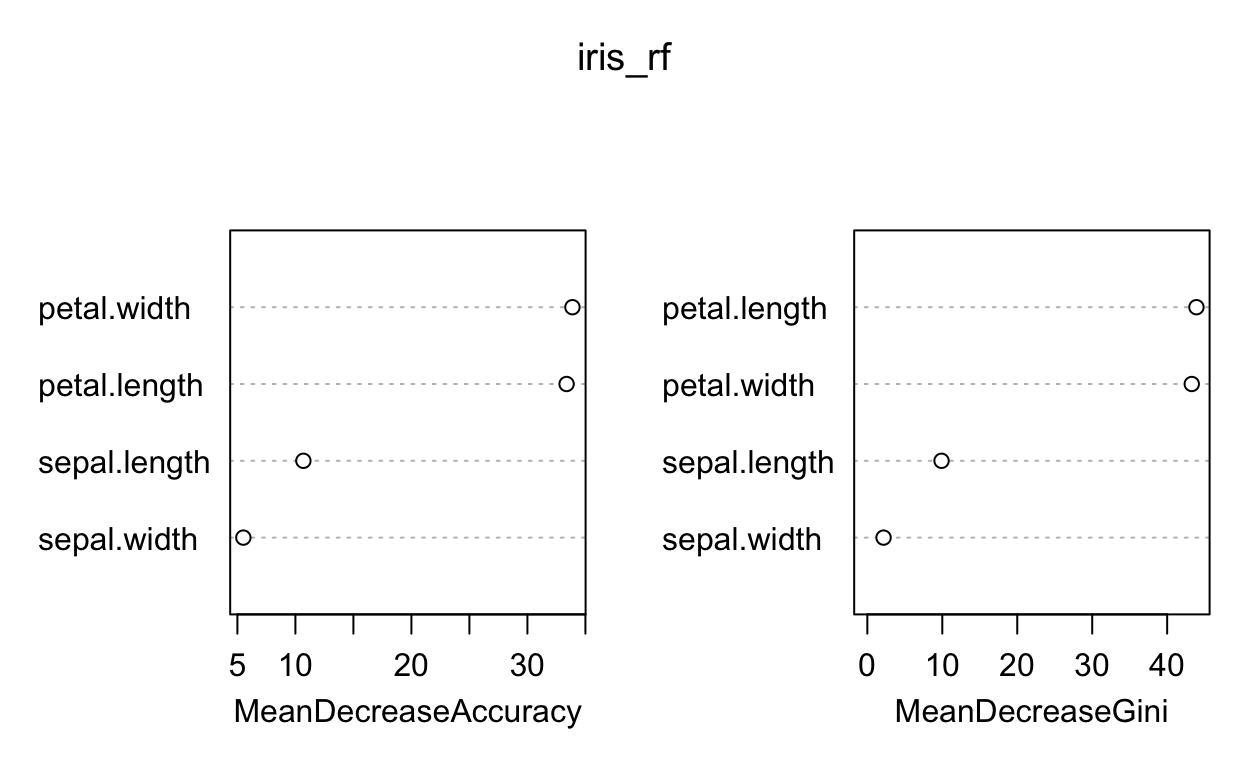
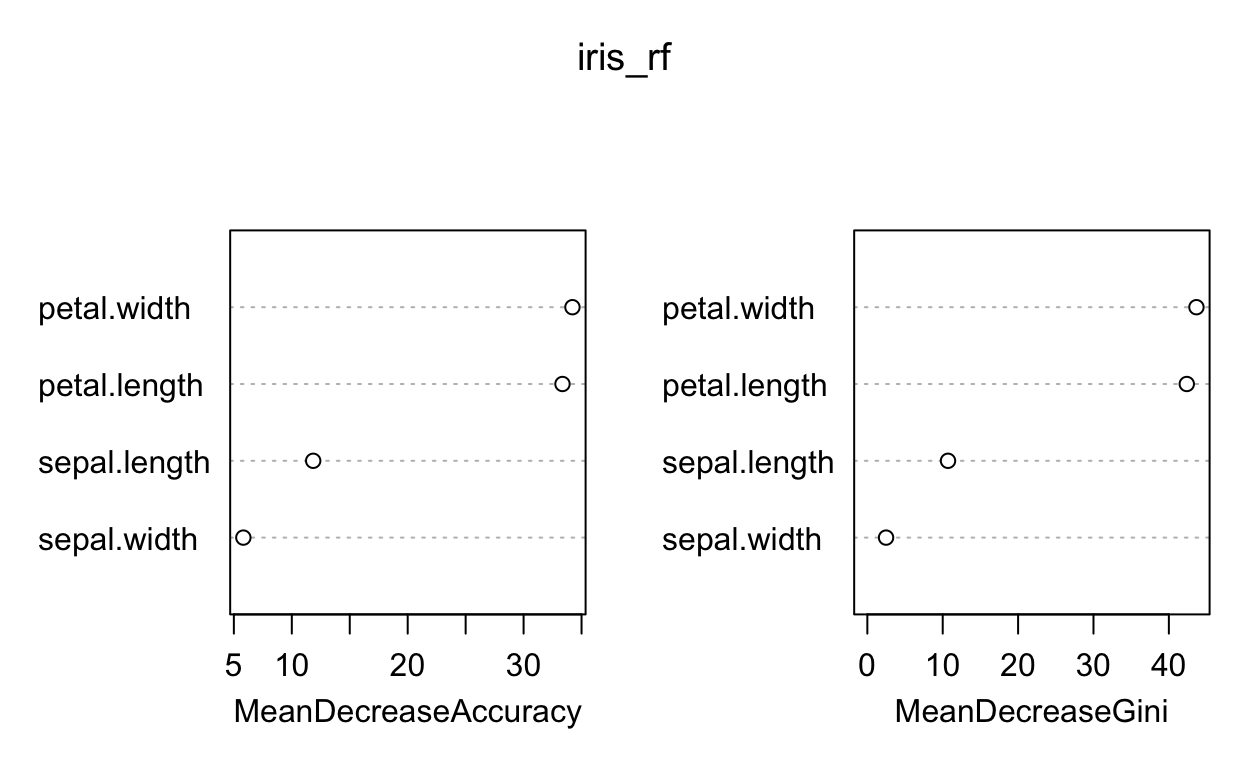
update distill blog and yml

diff --git a/docs/iris.html b/docs/iris.html
@@ -24,8 +24,8 @@
 
 
   <!--  https://schema.org/Article -->
-  <meta property="article:published" itemprop="datePublished" content="2020-04-22"/>
-  <meta property="article:created" itemprop="dateCreated" content="2020-04-22"/>
+  <meta property="article:published" itemprop="datePublished" content="2020-04-23"/>
+  <meta property="article:created" itemprop="dateCreated" content="2020-04-23"/>
 
   <!--  https://developers.facebook.com/docs/sharing/webmasters#markup -->
   <meta property="og:title" content="Distill 웹사이트: 붓꽃 데이터를 통한 Blogdown 헬로월드"/>
@@ -41,7 +41,7 @@
   <!--radix_placeholder_rmarkdown_metadata-->
 
   <script type="text/json" id="radix-rmarkdown-metadata">
-  {"type":"list","attributes":{"names":{"type":"character","attributes":{},"value":["title","date","site","listing","editor_options","categories","tags"]}},"value":[{"type":"character","attributes":{},"value":["붓꽃 데이터를 통한 Blogdown 헬로월드"]},{"type":"character","attributes":{},"value":["2020-04-22"]},{"type":"character","attributes":{},"value":["distill::distill_website"]},{"type":"character","attributes":{},"value":["posts"]},{"type":"list","attributes":{"names":{"type":"character","attributes":{},"value":["chunk_output_type"]}},"value":[{"type":"character","attributes":{},"value":["console"]}]},{"type":"character","attributes":{},"value":["R"]},{"type":"character","attributes":{},"value":["R Markdown","붓꽃","blogdown","헬로월드","모형"]}]}
+  {"type":"list","attributes":{"names":{"type":"character","attributes":{},"value":["title","date","site","listing","editor_options","categories","tags"]}},"value":[{"type":"character","attributes":{},"value":["붓꽃 데이터를 통한 Blogdown 헬로월드"]},{"type":"character","attributes":{},"value":["2020-04-23"]},{"type":"character","attributes":{},"value":["distill::distill_website"]},{"type":"character","attributes":{},"value":["posts"]},{"type":"list","attributes":{"names":{"type":"character","attributes":{},"value":["chunk_output_type"]}},"value":[{"type":"character","attributes":{},"value":["console"]}]},{"type":"character","attributes":{},"value":["R"]},{"type":"character","attributes":{},"value":["R Markdown","붓꽃","blogdown","헬로월드","모형"]}]}
   </script>
   <!--/radix_placeholder_rmarkdown_metadata-->
   <!--radix_placeholder_navigation_in_header-->
@@ -1281,7 +1281,7 @@
 <!--radix_placeholder_front_matter-->
 
 <script id="distill-front-matter" type="text/json">
-{"title":"붓꽃 데이터를 통한 Blogdown 헬로월드","authors":[],"publishedDate":"2020-04-22T00:00:00.000+09:00"}
+{"title":"붓꽃 데이터를 통한 Blogdown 헬로월드","authors":[],"publishedDate":"2020-04-23T00:00:00.000+09:00"}
 </script>
 
 <!--/radix_placeholder_front_matter-->
@@ -1660,6 +1660,16 @@ reading what we have to say!</p>
 
 
 <div class="d-article">
+<h3 class="d-toc-header">Table of Contents</h3>
+<nav class="d-toc" id="TOC">
+<ul>
+<li><a href="#붓꽃iris-데이터-분석-blog-reference">붓꽃(iris) 데이터 분석 </a></li>
+<li><a href="#기능-점검">기능 점검</a></li>
+<li><a href="#시각화-그래프">시각화 그래프</a></li>
+<li><a href="#모형">모형</a></li>
+</ul>
+</nav>
+<hr class="d-toc-separator"/>
 <h1 id="붓꽃iris-데이터-분석-blog-reference">붓꽃(iris) 데이터 분석 <a href="#fn1" class="footnote-ref" id="fnref1" role="doc-noteref"><sup>1</sup></a></h1>
 <p>붗꽃 데이터 분석을 통해서 통계분석 보고서에서 자주 활용되는 기능을 점검한다.</p>
 <ul>
@@ -1676,8 +1686,8 @@ reading what we have to say!</p>
 iris_df &lt;- read_csv(&quot;data/iris.csv&quot;)
 
 DT::datatable(iris_df)</code></pre>
-<div id="htmlwidget-5d25c50161237ce230a2" style="width:100%;height:auto;" class="datatables html-widget"></div>
-<script type="application/json" data-for="htmlwidget-5d25c50161237ce230a2">{"x":{"filter":"none","data":[["1","2","3","4","5","6","7","8","9","10","11","12","13","14","15","16","17","18","19","20","21","22","23","24","25","26","27","28","29","30","31","32","33","34","35","36","37","38","39","40","41","42","43","44","45","46","47","48","49","50","51","52","53","54","55","56","57","58","59","60","61","62","63","64","65","66","67","68","69","70","71","72","73","74","75","76","77","78","79","80","81","82","83","84","85","86","87","88","89","90","91","92","93","94","95","96","97","98","99","100","101","102","103","104","105","106","107","108","109","110","111","112","113","114","115","116","117","118","119","120","121","122","123","124","125","126","127","128","129","130","131","132","133","134","135","136","137","138","139","140","141","142","143","144","145","146","147","148","149","150"],[5.1,4.9,4.7,4.6,5,5.4,4.6,5,4.4,4.9,5.4,4.8,4.8,4.3,5.8,5.7,5.4,5.1,5.7,5.1,5.4,5.1,4.6,5.1,4.8,5,5,5.2,5.2,4.7,4.8,5.4,5.2,5.5,4.9,5,5.5,4.9,4.4,5.1,5,4.5,4.4,5,5.1,4.8,5.1,4.6,5.3,5,7,6.4,6.9,5.5,6.5,5.7,6.3,4.9,6.6,5.2,5,5.9,6,6.1,5.6,6.7,5.6,5.8,6.2,5.6,5.9,6.1,6.3,6.1,6.4,6.6,6.8,6.7,6,5.7,5.5,5.5,5.8,6,5.4,6,6.7,6.3,5.6,5.5,5.5,6.1,5.8,5,5.6,5.7,5.7,6.2,5.1,5.7,6.3,5.8,7.1,6.3,6.5,7.6,4.9,7.3,6.7,7.2,6.5,6.4,6.8,5.7,5.8,6.4,6.5,7.7,7.7,6,6.9,5.6,7.7,6.3,6.7,7.2,6.2,6.1,6.4,7.2,7.4,7.9,6.4,6.3,6.1,7.7,6.3,6.4,6,6.9,6.7,6.9,5.8,6.8,6.7,6.7,6.3,6.5,6.2,5.9],[3.5,3,3.2,3.1,3.6,3.9,3.4,3.4,2.9,3.1,3.7,3.4,3,3,4,4.4,3.9,3.5,3.8,3.8,3.4,3.7,3.6,3.3,3.4,3,3.4,3.5,3.4,3.2,3.1,3.4,4.1,4.2,3.1,3.2,3.5,3.6,3,3.4,3.5,2.3,3.2,3.5,3.8,3,3.8,3.2,3.7,3.3,3.2,3.2,3.1,2.3,2.8,2.8,3.3,2.4,2.9,2.7,2,3,2.2,2.9,2.9,3.1,3,2.7,2.2,2.5,3.2,2.8,2.5,2.8,2.9,3,2.8,3,2.9,2.6,2.4,2.4,2.7,2.7,3,3.4,3.1,2.3,3,2.5,2.6,3,2.6,2.3,2.7,3,2.9,2.9,2.5,2.8,3.3,2.7,3,2.9,3,3,2.5,2.9,2.5,3.6,3.2,2.7,3,2.5,2.8,3.2,3,3.8,2.6,2.2,3.2,2.8,2.8,2.7,3.3,3.2,2.8,3,2.8,3,2.8,3.8,2.8,2.8,2.6,3,3.4,3.1,3,3.1,3.1,3.1,2.7,3.2,3.3,3,2.5,3,3.4,3],[1.4,1.4,1.3,1.5,1.4,1.7,1.4,1.5,1.4,1.5,1.5,1.6,1.4,1.1,1.2,1.5,1.3,1.4,1.7,1.5,1.7,1.5,1,1.7,1.9,1.6,1.6,1.5,1.4,1.6,1.6,1.5,1.5,1.4,1.5,1.2,1.3,1.4,1.3,1.5,1.3,1.3,1.3,1.6,1.9,1.4,1.6,1.4,1.5,1.4,4.7,4.5,4.9,4,4.6,4.5,4.7,3.3,4.6,3.9,3.5,4.2,4,4.7,3.6,4.4,4.5,4.1,4.5,3.9,4.8,4,4.9,4.7,4.3,4.4,4.8,5,4.5,3.5,3.8,3.7,3.9,5.1,4.5,4.5,4.7,4.4,4.1,4,4.4,4.6,4,3.3,4.2,4.2,4.2,4.3,3,4.1,6,5.1,5.9,5.6,5.8,6.6,4.5,6.3,5.8,6.1,5.1,5.3,5.5,5,5.1,5.3,5.5,6.7,6.9,5,5.7,4.9,6.7,4.9,5.7,6,4.8,4.9,5.6,5.8,6.1,6.4,5.6,5.1,5.6,6.1,5.6,5.5,4.8,5.4,5.6,5.1,5.1,5.9,5.7,5.2,5,5.2,5.4,5.1],[0.2,0.2,0.2,0.2,0.2,0.4,0.3,0.2,0.2,0.1,0.2,0.2,0.1,0.1,0.2,0.4,0.4,0.3,0.3,0.3,0.2,0.4,0.2,0.5,0.2,0.2,0.4,0.2,0.2,0.2,0.2,0.4,0.1,0.2,0.2,0.2,0.2,0.1,0.2,0.2,0.3,0.3,0.2,0.6,0.4,0.3,0.2,0.2,0.2,0.2,1.4,1.5,1.5,1.3,1.5,1.3,1.6,1,1.3,1.4,1,1.5,1,1.4,1.3,1.4,1.5,1,1.5,1.1,1.8,1.3,1.5,1.2,1.3,1.4,1.4,1.7,1.5,1,1.1,1,1.2,1.6,1.5,1.6,1.5,1.3,1.3,1.3,1.2,1.4,1.2,1,1.3,1.2,1.3,1.3,1.1,1.3,2.5,1.9,2.1,1.8,2.2,2.1,1.7,1.8,1.8,2.5,2,1.9,2.1,2,2.4,2.3,1.8,2.2,2.3,1.5,2.3,2,2,1.8,2.1,1.8,1.8,1.8,2.1,1.6,1.9,2,2.2,1.5,1.4,2.3,2.4,1.8,1.8,2.1,2.4,2.3,1.9,2.3,2.5,2.3,1.9,2,2.3,1.8],["Setosa","Setosa","Setosa","Setosa","Setosa","Setosa","Setosa","Setosa","Setosa","Setosa","Setosa","Setosa","Setosa","Setosa","Setosa","Setosa","Setosa","Setosa","Setosa","Setosa","Setosa","Setosa","Setosa","Setosa","Setosa","Setosa","Setosa","Setosa","Setosa","Setosa","Setosa","Setosa","Setosa","Setosa","Setosa","Setosa","Setosa","Setosa","Setosa","Setosa","Setosa","Setosa","Setosa","Setosa","Setosa","Setosa","Setosa","Setosa","Setosa","Setosa","Versicolor","Versicolor","Versicolor","Versicolor","Versicolor","Versicolor","Versicolor","Versicolor","Versicolor","Versicolor","Versicolor","Versicolor","Versicolor","Versicolor","Versicolor","Versicolor","Versicolor","Versicolor","Versicolor","Versicolor","Versicolor","Versicolor","Versicolor","Versicolor","Versicolor","Versicolor","Versicolor","Versicolor","Versicolor","Versicolor","Versicolor","Versicolor","Versicolor","Versicolor","Versicolor","Versicolor","Versicolor","Versicolor","Versicolor","Versicolor","Versicolor","Versicolor","Versicolor","Versicolor","Versicolor","Versicolor","Versicolor","Versicolor","Versicolor","Versicolor","Virginica","Virginica","Virginica","Virginica","Virginica","Virginica","Virginica","Virginica","Virginica","Virginica","Virginica","Virginica","Virginica","Virginica","Virginica","Virginica","Virginica","Virginica","Virginica","Virginica","Virginica","Virginica","Virginica","Virginica","Virginica","Virginica","Virginica","Virginica","Virginica","Virginica","Virginica","Virginica","Virginica","Virginica","Virginica","Virginica","Virginica","Virginica","Virginica","Virginica","Virginica","Virginica","Virginica","Virginica","Virginica","Virginica","Virginica","Virginica","Virginica","Virginica"]],"container":"<table class=\"display\">\n  <thead>\n    <tr>\n      <th> <\/th>\n      <th>sepal.length<\/th>\n      <th>sepal.width<\/th>\n      <th>petal.length<\/th>\n      <th>petal.width<\/th>\n      <th>variety<\/th>\n    <\/tr>\n  <\/thead>\n<\/table>","options":{"columnDefs":[{"className":"dt-right","targets":[1,2,3,4]},{"orderable":false,"targets":0}],"order":[],"autoWidth":false,"orderClasses":false}},"evals":[],"jsHooks":[]}</script>
+<div id="htmlwidget-4c65b088ee6033390e0b" style="width:100%;height:auto;" class="datatables html-widget"></div>
+<script type="application/json" data-for="htmlwidget-4c65b088ee6033390e0b">{"x":{"filter":"none","data":[["1","2","3","4","5","6","7","8","9","10","11","12","13","14","15","16","17","18","19","20","21","22","23","24","25","26","27","28","29","30","31","32","33","34","35","36","37","38","39","40","41","42","43","44","45","46","47","48","49","50","51","52","53","54","55","56","57","58","59","60","61","62","63","64","65","66","67","68","69","70","71","72","73","74","75","76","77","78","79","80","81","82","83","84","85","86","87","88","89","90","91","92","93","94","95","96","97","98","99","100","101","102","103","104","105","106","107","108","109","110","111","112","113","114","115","116","117","118","119","120","121","122","123","124","125","126","127","128","129","130","131","132","133","134","135","136","137","138","139","140","141","142","143","144","145","146","147","148","149","150"],[5.1,4.9,4.7,4.6,5,5.4,4.6,5,4.4,4.9,5.4,4.8,4.8,4.3,5.8,5.7,5.4,5.1,5.7,5.1,5.4,5.1,4.6,5.1,4.8,5,5,5.2,5.2,4.7,4.8,5.4,5.2,5.5,4.9,5,5.5,4.9,4.4,5.1,5,4.5,4.4,5,5.1,4.8,5.1,4.6,5.3,5,7,6.4,6.9,5.5,6.5,5.7,6.3,4.9,6.6,5.2,5,5.9,6,6.1,5.6,6.7,5.6,5.8,6.2,5.6,5.9,6.1,6.3,6.1,6.4,6.6,6.8,6.7,6,5.7,5.5,5.5,5.8,6,5.4,6,6.7,6.3,5.6,5.5,5.5,6.1,5.8,5,5.6,5.7,5.7,6.2,5.1,5.7,6.3,5.8,7.1,6.3,6.5,7.6,4.9,7.3,6.7,7.2,6.5,6.4,6.8,5.7,5.8,6.4,6.5,7.7,7.7,6,6.9,5.6,7.7,6.3,6.7,7.2,6.2,6.1,6.4,7.2,7.4,7.9,6.4,6.3,6.1,7.7,6.3,6.4,6,6.9,6.7,6.9,5.8,6.8,6.7,6.7,6.3,6.5,6.2,5.9],[3.5,3,3.2,3.1,3.6,3.9,3.4,3.4,2.9,3.1,3.7,3.4,3,3,4,4.4,3.9,3.5,3.8,3.8,3.4,3.7,3.6,3.3,3.4,3,3.4,3.5,3.4,3.2,3.1,3.4,4.1,4.2,3.1,3.2,3.5,3.6,3,3.4,3.5,2.3,3.2,3.5,3.8,3,3.8,3.2,3.7,3.3,3.2,3.2,3.1,2.3,2.8,2.8,3.3,2.4,2.9,2.7,2,3,2.2,2.9,2.9,3.1,3,2.7,2.2,2.5,3.2,2.8,2.5,2.8,2.9,3,2.8,3,2.9,2.6,2.4,2.4,2.7,2.7,3,3.4,3.1,2.3,3,2.5,2.6,3,2.6,2.3,2.7,3,2.9,2.9,2.5,2.8,3.3,2.7,3,2.9,3,3,2.5,2.9,2.5,3.6,3.2,2.7,3,2.5,2.8,3.2,3,3.8,2.6,2.2,3.2,2.8,2.8,2.7,3.3,3.2,2.8,3,2.8,3,2.8,3.8,2.8,2.8,2.6,3,3.4,3.1,3,3.1,3.1,3.1,2.7,3.2,3.3,3,2.5,3,3.4,3],[1.4,1.4,1.3,1.5,1.4,1.7,1.4,1.5,1.4,1.5,1.5,1.6,1.4,1.1,1.2,1.5,1.3,1.4,1.7,1.5,1.7,1.5,1,1.7,1.9,1.6,1.6,1.5,1.4,1.6,1.6,1.5,1.5,1.4,1.5,1.2,1.3,1.4,1.3,1.5,1.3,1.3,1.3,1.6,1.9,1.4,1.6,1.4,1.5,1.4,4.7,4.5,4.9,4,4.6,4.5,4.7,3.3,4.6,3.9,3.5,4.2,4,4.7,3.6,4.4,4.5,4.1,4.5,3.9,4.8,4,4.9,4.7,4.3,4.4,4.8,5,4.5,3.5,3.8,3.7,3.9,5.1,4.5,4.5,4.7,4.4,4.1,4,4.4,4.6,4,3.3,4.2,4.2,4.2,4.3,3,4.1,6,5.1,5.9,5.6,5.8,6.6,4.5,6.3,5.8,6.1,5.1,5.3,5.5,5,5.1,5.3,5.5,6.7,6.9,5,5.7,4.9,6.7,4.9,5.7,6,4.8,4.9,5.6,5.8,6.1,6.4,5.6,5.1,5.6,6.1,5.6,5.5,4.8,5.4,5.6,5.1,5.1,5.9,5.7,5.2,5,5.2,5.4,5.1],[0.2,0.2,0.2,0.2,0.2,0.4,0.3,0.2,0.2,0.1,0.2,0.2,0.1,0.1,0.2,0.4,0.4,0.3,0.3,0.3,0.2,0.4,0.2,0.5,0.2,0.2,0.4,0.2,0.2,0.2,0.2,0.4,0.1,0.2,0.2,0.2,0.2,0.1,0.2,0.2,0.3,0.3,0.2,0.6,0.4,0.3,0.2,0.2,0.2,0.2,1.4,1.5,1.5,1.3,1.5,1.3,1.6,1,1.3,1.4,1,1.5,1,1.4,1.3,1.4,1.5,1,1.5,1.1,1.8,1.3,1.5,1.2,1.3,1.4,1.4,1.7,1.5,1,1.1,1,1.2,1.6,1.5,1.6,1.5,1.3,1.3,1.3,1.2,1.4,1.2,1,1.3,1.2,1.3,1.3,1.1,1.3,2.5,1.9,2.1,1.8,2.2,2.1,1.7,1.8,1.8,2.5,2,1.9,2.1,2,2.4,2.3,1.8,2.2,2.3,1.5,2.3,2,2,1.8,2.1,1.8,1.8,1.8,2.1,1.6,1.9,2,2.2,1.5,1.4,2.3,2.4,1.8,1.8,2.1,2.4,2.3,1.9,2.3,2.5,2.3,1.9,2,2.3,1.8],["Setosa","Setosa","Setosa","Setosa","Setosa","Setosa","Setosa","Setosa","Setosa","Setosa","Setosa","Setosa","Setosa","Setosa","Setosa","Setosa","Setosa","Setosa","Setosa","Setosa","Setosa","Setosa","Setosa","Setosa","Setosa","Setosa","Setosa","Setosa","Setosa","Setosa","Setosa","Setosa","Setosa","Setosa","Setosa","Setosa","Setosa","Setosa","Setosa","Setosa","Setosa","Setosa","Setosa","Setosa","Setosa","Setosa","Setosa","Setosa","Setosa","Setosa","Versicolor","Versicolor","Versicolor","Versicolor","Versicolor","Versicolor","Versicolor","Versicolor","Versicolor","Versicolor","Versicolor","Versicolor","Versicolor","Versicolor","Versicolor","Versicolor","Versicolor","Versicolor","Versicolor","Versicolor","Versicolor","Versicolor","Versicolor","Versicolor","Versicolor","Versicolor","Versicolor","Versicolor","Versicolor","Versicolor","Versicolor","Versicolor","Versicolor","Versicolor","Versicolor","Versicolor","Versicolor","Versicolor","Versicolor","Versicolor","Versicolor","Versicolor","Versicolor","Versicolor","Versicolor","Versicolor","Versicolor","Versicolor","Versicolor","Versicolor","Virginica","Virginica","Virginica","Virginica","Virginica","Virginica","Virginica","Virginica","Virginica","Virginica","Virginica","Virginica","Virginica","Virginica","Virginica","Virginica","Virginica","Virginica","Virginica","Virginica","Virginica","Virginica","Virginica","Virginica","Virginica","Virginica","Virginica","Virginica","Virginica","Virginica","Virginica","Virginica","Virginica","Virginica","Virginica","Virginica","Virginica","Virginica","Virginica","Virginica","Virginica","Virginica","Virginica","Virginica","Virginica","Virginica","Virginica","Virginica","Virginica","Virginica"]],"container":"<table class=\"display\">\n  <thead>\n    <tr>\n      <th> <\/th>\n      <th>sepal.length<\/th>\n      <th>sepal.width<\/th>\n      <th>petal.length<\/th>\n      <th>petal.width<\/th>\n      <th>variety<\/th>\n    <\/tr>\n  <\/thead>\n<\/table>","options":{"columnDefs":[{"className":"dt-right","targets":[1,2,3,4]},{"orderable":false,"targets":0}],"order":[],"autoWidth":false,"orderClasses":false}},"evals":[],"jsHooks":[]}</script>
 <pre class="r"><code>
 summary(iris_df)</code></pre>
 <pre><code>
@@ -1721,15 +1731,15 @@ iris_rf &lt;- randomForest::randomForest(variety ~ ., data = iris_df, importance
 randomForest::importance(iris_rf)</code></pre>
 <pre><code>
                 Setosa Versicolor Virginica MeanDecreaseAccuracy
-sepal.length  6.843150   7.985546  7.288490            10.687278
-sepal.width   5.332205   1.032978  5.412815             5.512174
-petal.length 22.874498  32.907074 27.394128            33.377010
-petal.width  21.707471  32.911144 31.540019            33.881475
+sepal.length  7.171761   7.927044  8.588132             11.84537
+sepal.width   4.722450   2.352394  4.902158              5.81838
+petal.length 21.599564  32.580989 26.729361             33.35419
+petal.width  23.468678  31.581412 30.866437             34.21416
              MeanDecreaseGini
-sepal.length         9.899846
-sepal.width          2.163513
-petal.length        43.905411
-petal.width         43.281723</code></pre>
+sepal.length        10.702217
+sepal.width          2.483738
+petal.length        42.376788
+petal.width         43.657943</code></pre>
 <pre class="r"><code>
 randomForest::varImpPlot(iris_rf)</code></pre>
 <p><img src="iris_files/figure-html5/iris-model-1.png" width="624" style="display: block; margin: auto;" /></p>

diff --git a/docs/index.html b/docs/index.html
@@ -19,29 +19,29 @@
  <!--/radix_placeholder_import_source-->
 
   <!--radix_placeholder_meta_tags-->
-  <title>Distill 웹사이트: 데이터 과학 제품 공유</title>
+  <title>Distill 웹사이트: 데이터 과학 제품 블로그</title>
 
 
 
   <!--  https://schema.org/Article -->
-  <meta property="article:published" itemprop="datePublished" content="2020-04-22"/>
-  <meta property="article:created" itemprop="dateCreated" content="2020-04-22"/>
+  <meta property="article:published" itemprop="datePublished" content="2020-04-23"/>
+  <meta property="article:created" itemprop="dateCreated" content="2020-04-23"/>
 
   <!--  https://developers.facebook.com/docs/sharing/webmasters#markup -->
-  <meta property="og:title" content="Distill 웹사이트: 데이터 과학 제품 공유"/>
+  <meta property="og:title" content="Distill 웹사이트: 데이터 과학 제품 블로그"/>
   <meta property="og:type" content="article"/>
   <meta property="og:locale" content="en_US"/>
   <meta property="og:site_name" content="Distill 웹사이트"/>
 
   <!--  https://dev.twitter.com/cards/types/summary -->
   <meta property="twitter:card" content="summary"/>
-  <meta property="twitter:title" content="Distill 웹사이트: 데이터 과학 제품 공유"/>
+  <meta property="twitter:title" content="Distill 웹사이트: 데이터 과학 제품 블로그"/>
 
   <!--/radix_placeholder_meta_tags-->
   <!--radix_placeholder_rmarkdown_metadata-->
 
   <script type="text/json" id="radix-rmarkdown-metadata">
-  {"type":"list","attributes":{"names":{"type":"character","attributes":{},"value":["title","date","site","listing","editor_options","categories","tags"]}},"value":[{"type":"character","attributes":{},"value":["데이터 과학 제품 공유"]},{"type":"character","attributes":{},"value":["2020-04-22"]},{"type":"character","attributes":{},"value":["distill::distill_website"]},{"type":"character","attributes":{},"value":["posts"]},{"type":"list","attributes":{"names":{"type":"character","attributes":{},"value":["chunk_output_type"]}},"value":[{"type":"character","attributes":{},"value":["console"]}]},{"type":"character","attributes":{},"value":["R"]},{"type":"character","attributes":{},"value":["R Markdown","blogdown","bookdown","공유","netlify"]}]}
+  {"type":"list","attributes":{"names":{"type":"character","attributes":{},"value":["title","date","site","listing","editor_options","categories","tags"]}},"value":[{"type":"character","attributes":{},"value":["데이터 과학 제품 블로그"]},{"type":"character","attributes":{},"value":["2020-04-23"]},{"type":"character","attributes":{},"value":["distill::distill_website"]},{"type":"character","attributes":{},"value":["posts"]},{"type":"list","attributes":{"names":{"type":"character","attributes":{},"value":["chunk_output_type"]}},"value":[{"type":"character","attributes":{},"value":["console"]}]},{"type":"character","attributes":{},"value":["R"]},{"type":"character","attributes":{},"value":["R Markdown","blogdown","bookdown","공유","netlify"]}]}
   </script>
   <!--/radix_placeholder_rmarkdown_metadata-->
   <!--radix_placeholder_navigation_in_header-->
@@ -1273,7 +1273,7 @@
 <!--radix_placeholder_front_matter-->
 
 <script id="distill-front-matter" type="text/json">
-{"title":"데이터 과학 제품 공유","authors":[],"publishedDate":"2020-04-22T00:00:00.000+09:00"}
+{"title":"데이터 과학 제품 블로그","authors":[],"publishedDate":"2020-04-23T00:00:00.000+09:00"}
 </script>
 
 <!--/radix_placeholder_front_matter-->
@@ -1623,7 +1623,7 @@ function init_posts_list() {
 
 <div class="posts-container posts-apply-limit l-page">
 <div class="posts-list">
-<h1 class="posts-list-caption">데이터 과학 제품 공유</h1>
+<h1 class="posts-list-caption">데이터 과학 제품 블로그</h1>
 <a href="posts/welcome/" class="post-preview">
 <script class="post-metadata" type="text/json">{"categories":[]}</script>
 <div class="metadata">
@@ -1646,18 +1646,62 @@ reading what we have to say!</p>
 <!--/radix_placeholder_article_listing-->
 
 <div class="d-title">
-<h1>데이터 과학 제품 공유</h1>
+<h1>데이터 과학 제품 블로그</h1>
 
 </div>
 
 
 <div class="d-article">
+<h3 class="d-toc-header">Table of Contents</h3>
+<nav class="d-toc" id="TOC">
+<ul>
+<li><a href="#yml-파일의-힘"><code>.yml</code> 파일의 힘</a></li>
+<li><a href="#r-콘텐츠-공유">R 콘텐츠 공유</a></li>
+<li><a href="#github-공유">GitHub 공유</a></li>
+</ul>
+</nav>
+<hr class="d-toc-separator"/>
 <h1 id="yml-파일의-힘"><code>.yml</code> 파일의 힘</h1>
 <ul>
 <li><a href="iris.html"><code>iris</code> 블로그</a></li>
 </ul>
+<div class="layout-chunk" data-layout="l-body">
+<pre class="r"><code>
+library(tidyverse)
+
+readr::read_lines(&quot;_site.yml&quot;) %&gt;% 
+  str_remove_all(&#39;\&quot;&#39;)</code></pre>
+<pre><code>
+ [1] &quot;name: distill-website&quot;                     
+ [2] &quot;title: Distill 웹사이트&quot;                   
+ [3] &quot;description: |&quot;                            
+ [4] &quot;  데이터 과학 공유를 distill로 추진합니다.&quot;
+ [5] &quot;output_dir: docs&quot;                          
+ [6] &quot;navbar:&quot;                                   
+ [7] &quot;  right:&quot;                                  
+ [8] &quot;    - text: 블로그&quot;                        
+ [9] &quot;      href: index.html&quot;                    
+[10] &quot;    - text: 콘텐츠&quot;                        
+[11] &quot;      menu:&quot;                               
+[12] &quot;      - text: 데이터 과학&quot;                 
+[13] &quot;        href: iris.html&quot;                   
+[14] &quot;      - text: 시각화&quot;                      
+[15] &quot;        href: gapminder.html&quot;              
+[16] &quot;      - text: 보고서&quot;                      
+[17] &quot;        href: automation.html        &quot;     
+[18] &quot;output: &quot;                                  
+[19] &quot;  distill::distill_article:&quot;               
+[20] &quot;    toc: true&quot;                             </code></pre>
+</div>
 <h1 id="r-콘텐츠-공유">R 콘텐츠 공유</h1>
 <p><img src="fig/sharing-yml.png" /></p>
+<h1 id="github-공유">GitHub 공유</h1>
+<p><a href="https://statkclee.github.io/comp_document/cd-github-hosting.html">데이터 과학을 위한 저작도구: Computational Documents, “GitHub 호스팅”</a>을 참조하여 <a href="https://statkclee.github.io/sharing-distill/">Distill 웹사이트</a>를 제작한다. 원본 파일과 관련 코드는 <a href="https://github.com/statkclee/sharing-distill">Sharing Rmarkdown distill paper</a> GitHub 저장소를 참조한다.</p>
+<div class="layout-chunk" data-layout="l-body">
+<pre class="r"><code>
+webshot2::webshot(&quot;https://statkclee.github.io/comp_document/cd-github-hosting.html&quot;, selector = &quot;#deploy-dashboard-gh-pages-sources &gt; div.figure &gt; img&quot;, &quot;fig/github-pages.png&quot;)</code></pre>
+<p><img src="index_files/figure-html5/webshot-github-setting-1.png" width="624" style="display: block; margin: auto;" /></p>
+</div>
 <!--radix_placeholder_article_footer-->
 <!--/radix_placeholder_article_footer-->
 </div>
